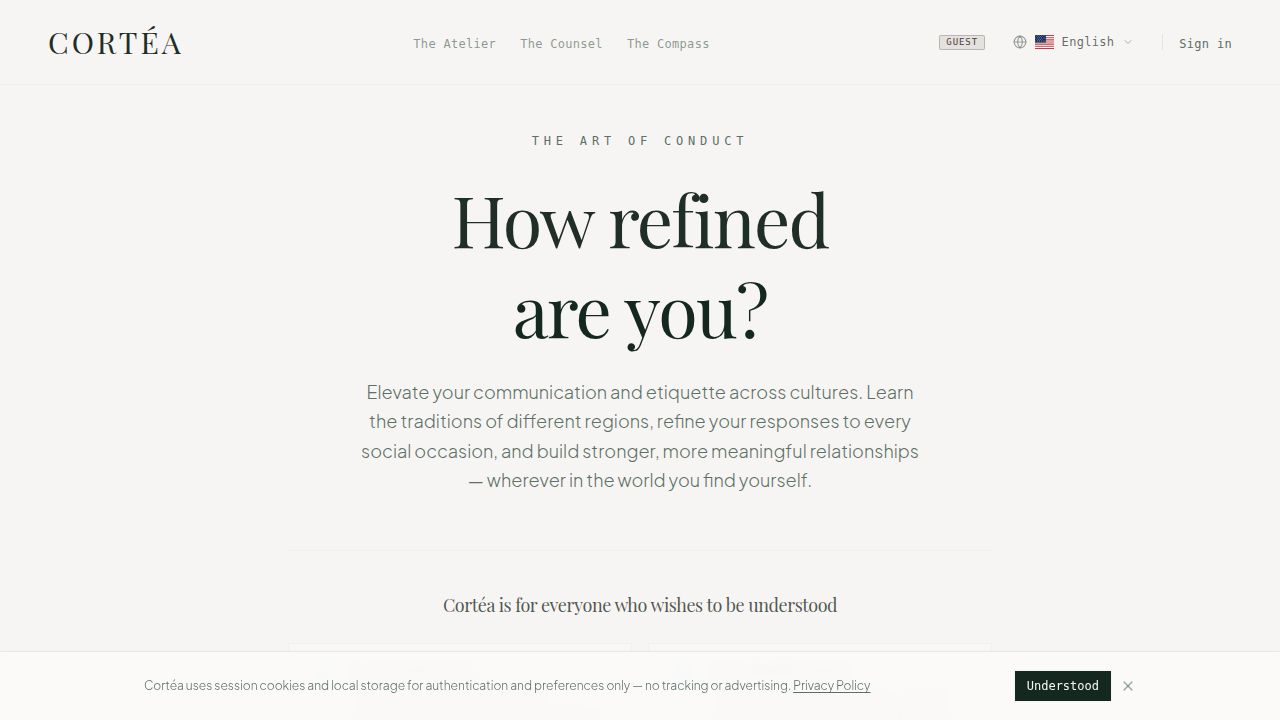
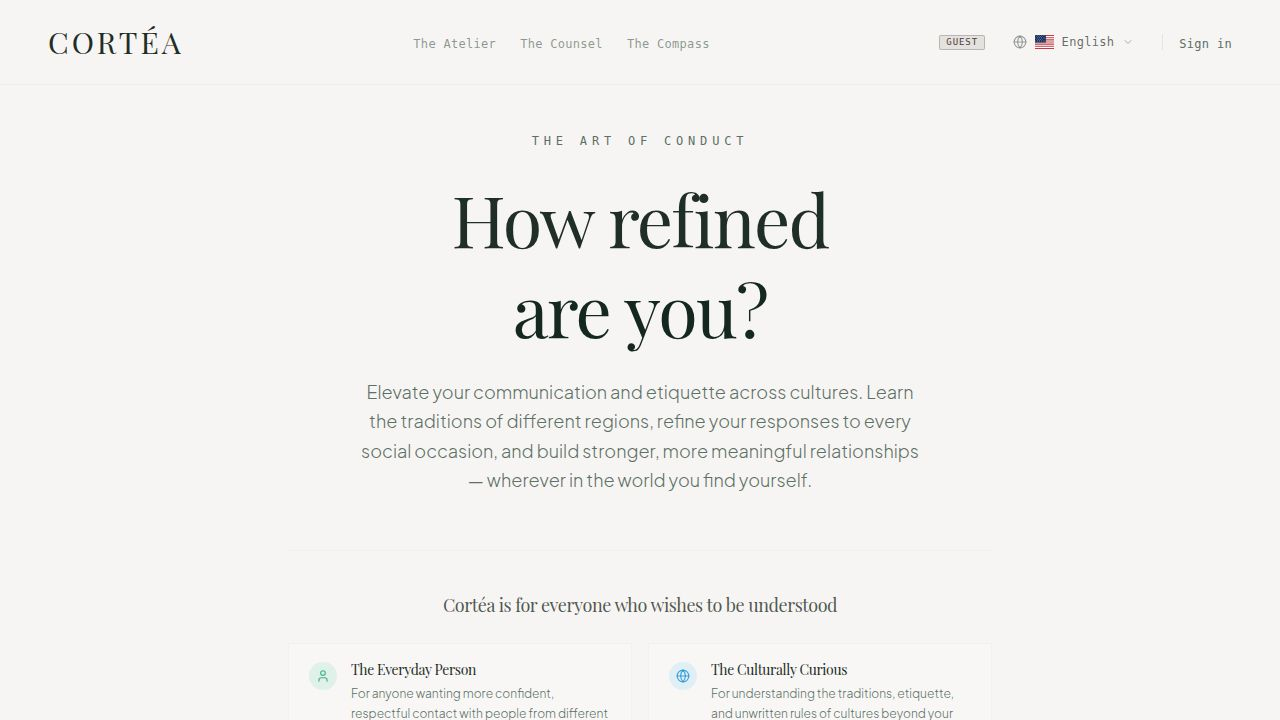
Task #245: Dismiss cookie consent automatically in tests
The cookie consent banner (CookieConsentBanner.tsx) was intermittently
appearing during e2e tests, blocking UI assertions and causing flakiness.

Fix: Added a navigator.webdriver check at the top of the banner's
useEffect. When navigator.webdriver is true — which is automatically set
by Playwright, Selenium, and all WebDriver-controlled browsers — the
effect returns early, leaving visible=false and preventing the banner
from rendering. No test configuration changes are required; the fix is
entirely in the component.

Applied to both component files:
- artifacts/sowiso/src/components/CookieConsentBanner.tsx (primary)
- artifacts/sowiso/public/components/CookieConsentBanner.tsx (duplicate
  flagged in code review — same fix applied to keep both in sync)

No deviations from the task. E2e test confirmed the banner is absent
(count=0) in a new Playwright context while the main page content loads
correctly.

Replit-Task-Id: 60c49433-3aca-4826-9822-04466070eee5

Changed region(s): [[0.125, 0.9167, 0.75, 1.0], [0.7812, 0.9167, 0.875, 0.9778]]

diff --git a/artifacts/sowiso/public/components/CookieConsentBanner.tsx b/artifacts/sowiso/public/components/CookieConsentBanner.tsx
@@ -12,6 +12,8 @@ export default function CookieConsentBanner() {
 
   useEffect(() => {
     try {
+      // Auto-dismiss in automated / e2e browser contexts (Playwright, Selenium, etc.)
+      if (navigator.webdriver) return;
       if (!localStorage.getItem(CONSENT_KEY)) {
         setVisible(true);
       }

diff --git a/artifacts/sowiso/src/components/CookieConsentBanner.tsx b/artifacts/sowiso/src/components/CookieConsentBanner.tsx
@@ -12,6 +12,8 @@ export default function CookieConsentBanner() {
 
   useEffect(() => {
     try {
+      // Auto-dismiss in automated / e2e browser contexts (Playwright, Selenium, etc.)
+      if (navigator.webdriver) return;
       if (!localStorage.getItem(CONSENT_KEY)) {
         setVisible(true);
       }